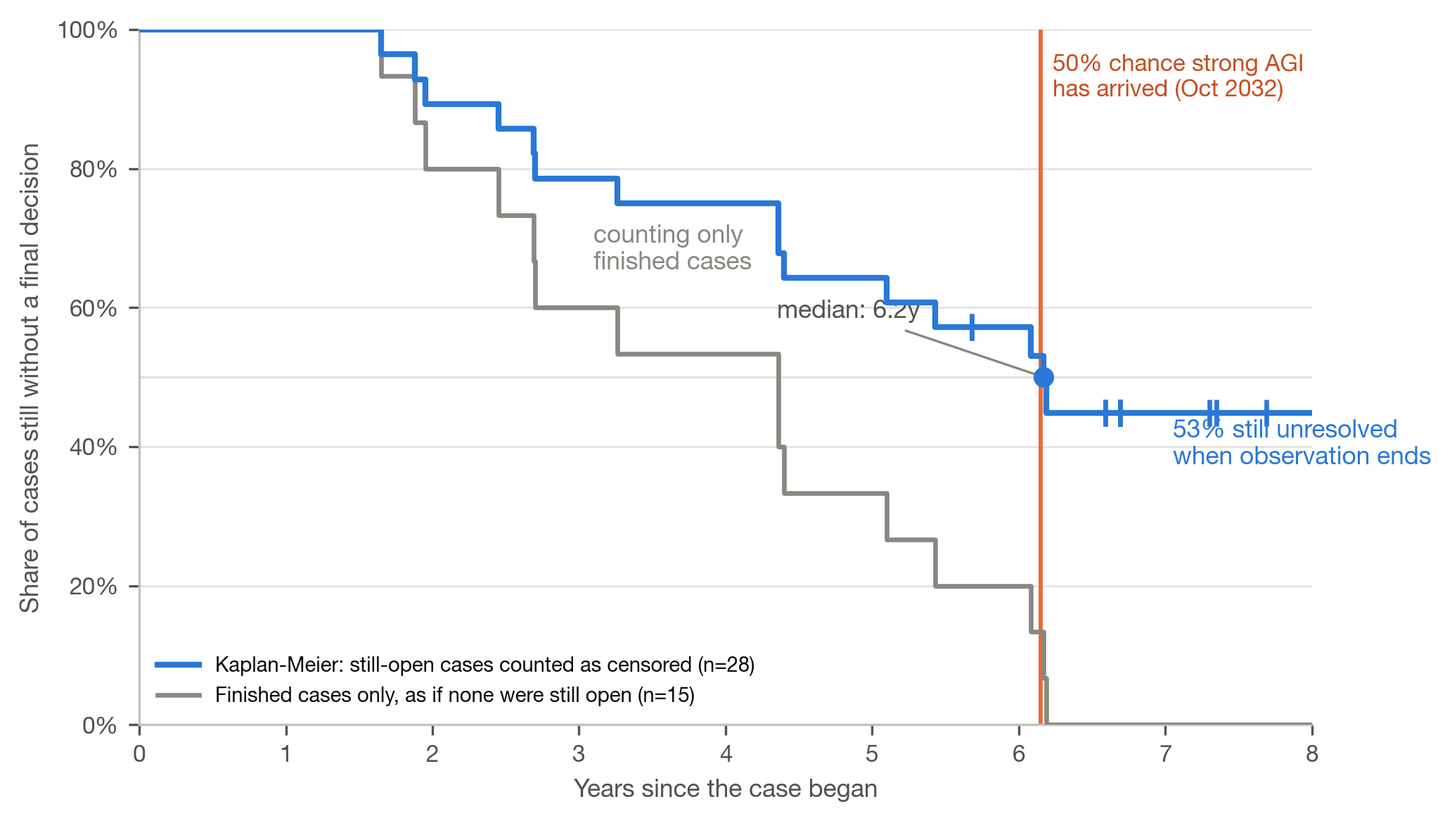
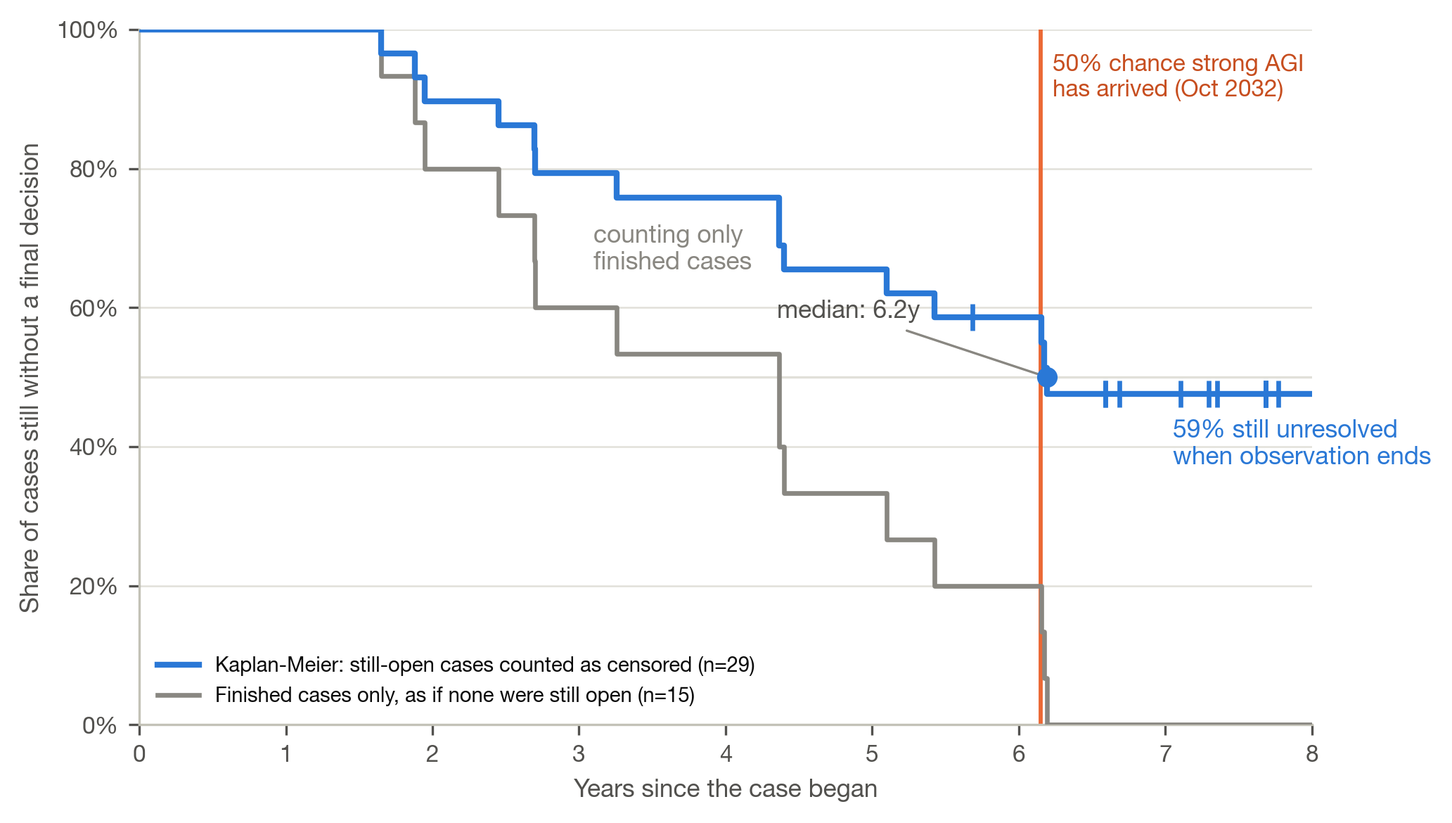
Audit corrections to the case datasets and figures
- Add the Facebook behavioural-advertising inquiry (La Quadrature du Net complaint,
  Aug 2018), which the DPC's 2020 annual report lists among the 27 cross-border
  inquiries open at end-2020 and which has no published decision; the end-2020
  cohort is now 29 cases with 14 still open on the 7 Sep 2026 basis date.
- Correct decision dates for UCD (17 Dec 2020), Centric Health (23 Jan 2023) and
  CDETB (18 Jun 2025), and the swapped commencement dates of the two token-breach
  inquiries, all per the decision PDFs.
- Replace ten month-precision commencement dates with the exact dates stated in the
  decisions (57 day-precision rows, 10 month-precision rows).
- Record inferred commencements with reasons for Bank of Ireland Group (Nov 2019,
  acknowledgement in the decision appendix), PIAB (May 2020, twin inquiry) and
  Mediahuis (Mar 2021 or later, complaint receipt per AR2024); relabel the Garda
  Dec 2022 decision (Kilmainham station breach).
- Open list: use the DPC's own dates for Yahoo, Quantcast and the Twitter and Apple
  inquiries listed in the 2018/2019 annual reports; add the Twitter datasets, TikTok
  China-servers and SHEIN inquiries; note the Google location-data decision of
  21 Sep 2026 (after the basis date).
- analyze.py: compute figure labels instead of hard-coding them, use exact day
  counts in the Kaplan-Meier estimate, and plot the Article 25 token-breach
  decision (EUR 240m) rather than the notification decision.
[…]

diff --git a/scripts/build_dataset.py b/scripts/build_dataset.py
@@ -51,19 +51,19 @@ row('inquiry-tusla-child-and-family-agency-may-2020', 'IN-19-12-8', 'Tusla Child
     trigger='2019-11-04', trigger_type='breach notified',
     note='Commencement letter 11 Dec 2019 quoted in decision')
 row('inquiry-university-college-dublin', 'IN-19-7-4', 'University College Dublin', PB, 0,
-    'own-volition (breach)', 'GDPR', '2019-07-19', 'day', '2020-06-17', 70000, 0,
+    'own-volition (breach)', 'GDPR', '2019-07-19', 'day', '2020-12-17', 70000, 0,
     trigger='2018-08-08', trigger_type='first of 7 breaches notified',
-    note='Notice of Commencement 19 July 2019 per decision')
+    note="Notice of Commencement 19 July 2019 per decision; decision dated 17 December 2020 on the PDF cover and in the DPC decisions list (the individual web page's '17 June 2020' is a DPC typo)")
 row('inquiry-tusla-child-and-family-agency-august-2020', 'IN-18-11-4', 'Tusla Child and Family Agency (3)', PB, 0,
-    'own-volition (breach)', 'GDPR', '2018-12-15', 'month', '2020-08-12', 85000, 0,
-    note='71 breaches; decision quotes Tusla doc "DPC Inquiry initiated in December 2018"; fines 50k+35k')
+    'own-volition (breach)', 'GDPR', '2018-12-06', 'day', '2020-08-12', 85000, 0,
+    note='71 breaches; decision quotes Tusla doc "DPC Inquiry initiated in December 2018"; fines 50k+35k; notice of commencement letter dated 6 December 2018 (para 2.1)')
 row('inquiries-concerning-health-service-executive#1', 'IN-19-9-1', 'Health Service Executive (1)', PB, 0,
     'own-volition (breach)', 'GDPR', '2019-10-17', 'day', '2020-08-18', 65000, 0,
     note='Notice of Commencement 17 Oct 2019 per decision')
 row('inquiries-concerning-health-service-executive#2', 'IN-19-9-2', 'Health Service Executive (2)', PB, 0,
-    'own-volition (breach)', 'GDPR', '2019-11-15', 'month', '2020-09-29', 0, 0,
+    'own-volition (breach)', 'GDPR', '2019-11-26', 'day', '2020-09-29', 0, 0,
     trigger='2019-05-01', trigger_type='breach notified',
-    note='Second HSE inquiry; commencement month approximated (notice date not in available text); no additional fine given IN-19-9-1')
+    note='Second HSE inquiry; commencement month approximated (notice date not in available text); no additional fine given IN-19-9-1; Notice of Commencement 26 November 2019 (para 3.3)')
 row('inquiry-waterford-city-and-county-council', '06-SIU-2018', 'Waterford City & County Council (CCTV)', PB, 0,
     'own-volition', 'LED', '2018-06-25', 'month', '2020-10-21', 0, 0,
     note='SIU surveillance program June 2018')
@@ -103,20 +103,20 @@ row('inquiry-limerick-city-and-county-council', '03-SIU-2018', 'Limerick City & 
     note='Decision records audit opening phase commencing 25 June 2018')
 # ---------------------------------------------------------------- 2022
 row('inquiry-personal-injuries-assessment-board', 'IN-20-4-7', 'Personal Injuries Assessment Board', PB, 0,
-    'own-volition (breach)', 'GDPR', '2020-04-15', 'month', '2022-01-24', 0, 0,
+    'own-volition (breach)', 'GDPR', '2020-05-08', 'month', '2022-01-24', 0, 0,
     trigger='2019-12-10', trigger_type='breach notified',
-    note='Commencement month from DPC ref convention (IN-20-4)')
+    note='Commencement inferred as May 2020: the published decision gives no date, and the twin inquiry into the same lost USB device (IN-20-4-8) was commenced by letter of 8 May 2020; the DPC ref convention had suggested April')
 row('inquiry-consultancy-provider', 'IN-20-4-8', 'A Consultancy Provider (processor)', PR, 0,
-    'own-volition (breach)', 'GDPR', '2020-04-15', 'month', '2022-01-24', 0, 0,
-    note='Companion inquiry to PIAB; commencement month from DPC ref convention')
+    'own-volition (breach)', 'GDPR', '2020-05-08', 'day', '2022-01-24', 0, 0,
+    note='Companion inquiry to PIAB; commencement month from DPC ref convention; Letter of Notice of the Commencement of an Inquiry 8 May 2020 (para 4.6)')
 row('inquiry-slane-credit-union', 'IN-19-7-5', 'Slane Credit Union', PR, 0,
     'own-volition (breach)', 'GDPR', '2019-07-19', 'day', '2022-01-26', 5000, 0,
     trigger='2018-11-30', trigger_type='breach notified',
     note='Inquiry Commencement Notice 19 Jul 2019 per decision')
 row('inquiry-bank-ireland-group-plc', 'IN-19-9-5', 'Bank of Ireland Group (CCR breaches)', PR, 0,
-    'own-volition (breach)', 'GDPR', '2019-09-15', 'month', '2022-03-14', 463000, 0,
+    'own-volition (breach)', 'GDPR', '2019-11-12', 'month', '2022-03-14', 463000, 0,
     trigger='2018-11-09', trigger_type='first of 22 breaches notified',
-    note='Commencement month from DPC ref convention (IN-19-9)')
+    note="Commencement letter undated in the decision text, but the appendix schedule records BOI's acknowledgement of the inquiry on 12 November 2019 and its reply to the commencement letter on 6 December 2019, so the inquiry commenced on or shortly before 12 Nov 2019 (the DPC ref convention had suggested September)")
 row('inquiry-concerning-12-facebook-personal-data-breaches', 'IN-18-11-5', 'Meta/Facebook (12 breaches 2018)', BT, 1,
     'own-volition (breach)', 'GDPR', '2018-12-11', 'day', '2022-03-15', 17000000, 0,
     trigger='2018-06-07', trigger_type='first of 12 breaches notified',
@@ -143,25 +143,25 @@ row('inquiry-ark-life-assurance-company-dac', 'IN-21-6-1', 'Ark Life Assurance (
 row('inquiry-concerning-meta-dataset-november-2022', 'IN-21-4-2', 'Meta/Facebook (data scraping)', BT, 1,
     'own-volition', 'GDPR', '2021-04-14', 'day', '2022-11-25', 265000000, 0,
     note='Commenced 14 Apr 2021 per decision after media reports of 533m-user scraped dataset')
-row('inquiry-garda-siochana-december-2022', 'IN-20-1-3', 'An Garda Siochana (disclosure requests)', PB, 0,
+row('inquiry-garda-siochana-december-2022', 'IN-20-1-3', 'An Garda Siochana (Kilmainham station breach)', PB, 0,
     'own-volition (breach)', 'LED', '2020-01-15', 'month', '2022-12-15', 0, 0,
-    note='Commencement month from DPC ref convention (IN-20-1); LED/DPA Part 5')
+    note="No decision text published; DPC page: LED (Part 5) inquiry into a breach at Kilmainham Garda Station that disclosed 108 people's names and addresses, decided 15 Dec 2022; commencement month from DPC ref convention (IN-20-1)")
 row('inquiry-virtue-integrated-elder-care-ltd-viec-december-2022', 'IN-21-2-5', 'Virtue Integrated Elder Care', PR, 0,
-    'own-volition (breach)', 'GDPR', '2021-02-15', 'month', '2022-12-20', 100000, 0,
+    'own-volition (breach)', 'GDPR', '2021-03-08', 'day', '2022-12-20', 100000, 0,
     trigger='2020-08-19', trigger_type='breach notified',
-    note='Commencement month from DPC ref convention (IN-21-2)')
+    note='Commencement month from DPC ref convention (IN-21-2); Commencement Letter 8 March 2021 (appendix C.1)')
 row('inquiry-ag-couriers-limited-ta-fastway-couriers-ireland-december-2022', 'IN-21-6-2', 'Fastway Couriers (A&G Couriers)', PR, 0,
-    'own-volition (breach)', 'GDPR', '2021-06-15', 'month', '2022-12-30', 15000, 0,
+    'own-volition (breach)', 'GDPR', '2021-10-18', 'day', '2022-12-30', 15000, 0,
     trigger='2021-03-04', trigger_type='breach notified',
-    note='Commencement month from DPC ref convention (IN-21-6)')
+    note='Commencement month from DPC ref convention (IN-21-6); Inquiry Commencement Letter 18 October 2021 per decision, four months after the reference month')
 row('inquiry-meta-platforms-ireland-limited-december-2022#1', 'IN-18-5-5', 'Meta/Facebook (legal basis for ads)', BT, 1,
     'complaint', 'GDPR', '2018-08-20', 'day', '2022-12-31', 210000000, 1,
     trigger='2018-05-25', trigger_type='noyb complaint (GDPR day one)',
     note='Inquiry commenced 20 Aug 2018 per decision; EDPB Art 65 binding decision')
 row('inquiry-meta-platforms-ireland-limited-december-2022#2', 'IN-18-5-7', 'Meta/Instagram (legal basis for ads)', BT, 1,
-    'complaint', 'GDPR', '2018-08-20', 'month', '2022-12-31', 180000000, 1,
+    'complaint', 'GDPR', '2018-08-20', 'day', '2022-12-31', 180000000, 1,
     trigger='2018-05-25', trigger_type='noyb complaint (GDPR day one)',
-    note='Companion inquiry opened in same Aug 2018 batch; EDPB Art 65 binding decision')
+    note='Companion inquiry opened in same Aug 2018 batch; EDPB Art 65 binding decision; Notice of Commencement dated 20 August 2018 (fn. 401-402), day precision')
 # ---------------------------------------------------------------- 2023
 row('inquiry-whatsapp-ireland-ltd-january-2023', 'IN-18-5-6', 'WhatsApp Ireland (legal basis)', BT, 1,
     'complaint', 'GDPR', '2018-08-20', 'day', '2023-01-12', 5500000, 1,
@@ -171,12 +171,12 @@ row('inquiry-kildare-county-council-january-2023', '05-SIU-2018', 'Kildare Count
     'own-volition', 'LED', '2018-06-25', 'month', '2023-01-16', 50000, 0,
     note='SIU surveillance program June 2018')
 row('inquiry-centric-health-ltd-centric-february-2023', 'IN-21-2-4', 'Centric Health (ransomware)', PR, 0,
-    'own-volition (breach)', 'GDPR', '2021-03-01', 'day', '2023-02-23', 460000, 0,
+    'own-volition (breach)', 'GDPR', '2021-03-01', 'day', '2023-01-23', 460000, 0,
     trigger='2019-12-05', trigger_type='breach notified',
-    note='Commencement letter 1 Mar 2021 per decision; fines 275k+50k+135k')
+    note="Commencement letter 1 Mar 2021 per decision; fines 275k+50k+135k; decision dated 23 January 2023 on the PDF cover (AR2023: 'issued its Final Decision in this Inquiry in January 2023'); the DPC page's 23 Feb 2023 is the publication date")
 row('inquiry-bank-ireland-365-boi-february-2023', 'IN-20-7-2', 'Bank of Ireland 365', PR, 0,
-    'own-volition (breach)', 'GDPR', '2020-07-15', 'month', '2023-02-27', 750000, 0,
-    note='Commencement month from DPC ref convention (IN-20-7)')
+    'own-volition (breach)', 'GDPR', '2020-08-12', 'day', '2023-02-27', 750000, 0,
+    note='Commencement month from DPC ref convention (IN-20-7); Inquiry Commencement Letter 12 August 2020 per decision')
 row('inquiry-processing-church-records-archbishop-dublin', 'IN-19-7-6', 'Archbishop of Dublin (church records)', NP, 0,
     'complaint', 'GDPR', '2019-12-20', 'day', '2023-02-27', 0, 0,
     note='Commencement letter 20 Dec 2019 per decision')
@@ -222,8 +222,8 @@ row('groupon-ireland-operations-limited-march-2024', '', 'Groupon Ireland (acces
     'complaint', 'GDPR', '2019-02-01', 'day', '2024-03-08', 0, 0,
     note='DPC formally commenced investigation 1 Feb 2019 per decision')
 row('inquiry-concerning-mediahuis-ireland-group-limited', 'IN-21-2-6', 'Mediahuis Ireland (journalism complaint)', PR, 0,
-    'complaint', 'GDPR', '2021-02-15', 'month', '2024-06-07', 0, 0,
-    note='Commencement month from DPC ref convention (IN-21-2); complaint dismissed (journalism exemption)')
+    'complaint', 'GDPR', '2021-03-15', 'month', '2024-06-07', 0, 0,
+    note='No decision text published; DPC AR2024 says the complaint was received in March 2021, so commencement is March 2021 or later (the DPC ref convention had suggested February); complaint dismissed (journalism exemption)')
 row('inquiry-meta-platforms-ireland-limited-september-2024', 'IN-19-4-1', 'Meta/Facebook (plaintext passwords)', BT, 1,
     'own-volition (breach)', 'GDPR', '2019-04-24', 'day', '2024-09-26', 91000000, 0,
     trigger='2019-03-21', trigger_type='issue reported to DPC',
@@ -239,13 +239,13 @@ row('inquiry-maynooth-university', 'IN-19-9-3', 'Maynooth University', PB, 0,
     'own-volition (breach)', 'GDPR', '2019-11-07', 'day', '2024-11-22', 40000, 0,
     note='Commencement letter 7 Nov 2019 per decision; fines 25k+15k')
 row('inquiries-meta-platforms-ireland-limited-token-breach#1', 'IN-18-10-1', 'Meta/Facebook (token breach, notification)', BT, 1,
-    'own-volition (breach)', 'GDPR', '2018-10-03', 'day', '2024-12-12', 11000000, 0,
+    'own-volition (breach)', 'GDPR', '2018-10-18', 'day', '2024-12-12', 11000000, 0,
     trigger='2018-09-28', trigger_type='breach notified',
-    note='DPC announced statutory inquiry 3 Oct 2018 (press statement); fines 8m+3m under Art 33')
+    note="Article 33 decision, para 6: 'The DPC commenced an own-volition inquiry ... on 18 October 2018'; the 3 Oct 2018 press statement relates to the companion Art 25 inquiry (the DPC's two PDF file names are swapped); fines 8m+3m under Art 33")
 row('inquiries-meta-platforms-ireland-limited-token-breach#2', 'IN-18-11-1', 'Meta/Facebook (token breach, Art 25)', BT, 1,
-    'own-volition (breach)', 'GDPR', '2018-11-15', 'month', '2024-12-12', 240000000, 0,
+    'own-volition (breach)', 'GDPR', '2018-10-03', 'day', '2024-12-12', 240000000, 0,
     trigger='2018-09-28', trigger_type='breach notified',
-    note='Second token-breach inquiry; commencement month from DPC ref convention (IN-18-11); fines 130m+110m under Art 25')
+    note="Second token-breach inquiry; commencement month from DPC ref convention (IN-18-11); fines 130m+110m under Art 25; Article 25 decision, para 6: inquiry commenced 3 October 2018 (day precision); the DPC's two token-breach PDF file names are swapped")
 # ---------------------------------------------------------------- 2025-2026
 row('inquiry-tiktok-technology-limited', 'IN-21-9-2', 'TikTok (transfers to China)', BT, 1,
     'own-volition', 'GDPR', '2021-09-14', 'day', '2025-04-30', 530000000, 0,
@@ -254,15 +254,15 @@ row('inquiry-concerning-department-social-protection', 'IN-21-7-3', 'Dept of Soc
     'own-volition', 'GDPR', '2021-07-20', 'day', '2025-06-09', 550000, 0,
     note='Notice of Commencement 20 Jul 2021 per decision')
 row('inquiry-city-dublin-education-and-training-board-cdetb', 'IN-19-7-3', 'City of Dublin ETB (SUSI breach)', PB, 0,
-    'own-volition (breach)', 'GDPR', '2019-07-19', 'month', '2025-06-23', 125000, 0,
-    note='DPC summary: commenced July 2019 (same notice batch as UCD/ICB/Slane, 19 Jul 2019); fines 50k+15k+10k+50k')
+    'own-volition (breach)', 'GDPR', '2019-07-19', 'day', '2025-06-18', 125000, 0,
+    note="DPC summary: commenced July 2019 (same notice batch as UCD/ICB/Slane, 19 Jul 2019); fines 50k+15k+10k+50k; Inquiry Commencement Letter 19 July 2019 (para 50); decision 'made on 18 June 2025' per the corrigendum (page date 23 Jun 2025 is publication)")
 row('inquiry-microsoft-ireland-operations-limited-september-2025', '', 'Microsoft Ireland (access complaint)', BT, 1,
     'complaint', 'GDPR', '2023-05-16', 'day', '2025-09-01', 0, 0,
     note='Commenced 16 May 2023 per DPC summary')
 row('inquiry-concerning-university-limerick', 'IN-19-7-1', 'University of Limerick', PB, 0,
-    'own-volition (breach)', 'GDPR', '2019-07-19', 'month', '2025-12-10', 98000, 0,
+    'own-volition (breach)', 'GDPR', '2019-07-08', 'day', '2025-12-10', 98000, 0,
     trigger='2018-11-30', trigger_type='first of 12 breaches notified',
-    note='Ref IN-19-7-1; July 2019 breach-sweep batch (UCD/ICB/Slane notices dated 19 Jul 2019); fines total 98k per DPC')
+    note='Ref IN-19-7-1; July 2019 breach-sweep batch (UCD/ICB/Slane notices dated 19 Jul 2019); fines total 98k per DPC; Notice of Commencement of Inquiry 8 July 2019 per decision')
 row('inquiry-permanent-TSB-april-2026', 'IN-22-7-3', 'Permanent TSB', PR, 0,
     'own-volition (breach)', 'GDPR', '2022-08-24', 'day', '2026-04-30', 277500, 0,
     trigger='2022-05-26', trigger_type='breaches notified',

diff --git a/scripts/build_open_inquiries.py b/scripts/build_open_inquiries.py
@@ -22,29 +22,37 @@ ROWS = [
  ('Google Ireland (adtech / Ad Exchange RTB)', 'legal basis, transparency, retention in real-time bidding',
   '2019-05-22', 'day', 'DPC statement 22 May 2019; ICCL reporting confirms no decision through 2026'),
  ('Quantcast International', 'transparency and retention in adtech profiling',
-  '2019-05-01', 'month', 'DPC announced inquiry May 2019 (AR2019 table)'),
+  '2019-05-02', 'day', 'DPC announced inquiry May 2019 (AR2019 table); DPC press release 2 May 2019'),
  ('Verizon Media / Oath (Yahoo)', 'transparency under Articles 12-14',
-  '2019-12-31', 'by_year_end', 'listed open in AR2019 cross-border table'),
+  '2019-08-01', 'day', 'DPC: inquiry commenced 1 Aug 2019; Art 60 draft 27 Oct 2022'),
  ('Apple Distribution International (ads legal basis)', 'lawful basis for behavioural ads',
-  '2019-12-31', 'by_year_end', 'listed open in AR2019 cross-border table'),
+  '2018-12-31', 'by_year_end', 'listed open in AR2019 cross-border table; listed among the inquiries open at 31 Dec 2018 (AR2018 table)'),
  ('Apple Distribution International (transparency)', 'privacy policy transparency',
-  '2019-12-31', 'by_year_end', 'listed open in AR2019 cross-border table'),
+  '2018-12-31', 'by_year_end', 'listed open in AR2019 cross-border table; listed among the inquiries open at 31 Dec 2018 (AR2018 table)'),
  ('Apple Distribution International (right of access)', 'access request handling',
-  '2020-12-31', 'by_year_end', 'listed open in AR2020 cross-border table'),
+  '2019-12-31', 'by_year_end', 'listed open in AR2020 cross-border table; already in the AR2019 table (access request issues), so latest-possible start is end-2019'),
  ('Facebook Inc. (token breach, US entity)', 'security of processing (Sep 2018 token breach)',
   '2018-12-31', 'by_year_end', 'listed open in AR2019/AR2020 tables; Dec 2024 decisions covered the Irish entity only'),
  ('Meta/Facebook (Hive database access & portability)', 'right of access and data portability',
   '2018-07-27', 'day', 'inquiry IN-18-7-1 opened 27 Jul 2018 on a 20 Jul 2018 complaint about access to the Hive data warehouse; confirmed by High Court judgment [2026] IEHC 323 (21 May 2026) and contemporaneous reporting (Law Society Gazette, ppc.land); previously bounded at end-2019 from the AR2019 open-inquiries table'),
+ ('Meta/Facebook (behavioural advertising, LQDN complaint)', 'lawfulness of processing for targeted advertising and behavioural analysis',
+  '2018-08-31', 'month', 'complaint by La Quadrature du Net (28 May 2018); inquiry commenced Aug 2018 (AR2020 cross-border table); AR2024: final inquiry report July 2024, ongoing at year end; no published decision'),
  ('Twitter International (access to links)', 'right of access to links accessed on Twitter',
-  '2019-12-31', 'by_year_end', 'listed open in AR2019 cross-border table'),
+  '2018-12-31', 'by_year_end', 'listed open in AR2019 cross-border table; listed among the inquiries open at 31 Dec 2018 (AR2018 table)'),
  ('Twitter International (breach volume)', 'security of processing (breach volume since May 2018)',
-  '2019-12-31', 'by_year_end', 'listed open in AR2019 cross-border table; distinct from decided IN-19-1-1'),
+  '2018-11-30', 'month', 'listed open in AR2019 cross-border table; distinct from decided IN-19-1-1'),
  ('Yelp', 'Articles 5, 6, 7, 17 compliance',
   '2020-12-31', 'by_year_end', 'listed open in AR2020 cross-border table'),
  ('Google Ireland (location data)', 'legal basis and transparency for location data',
-  '2020-02-04', 'day', 'DPC press release 4 Feb 2020; no published decision'),
+  '2020-02-04', 'day', 'DPC press release 4 Feb 2020; no published decision; still open on the 7 Sep 2026 basis date; final decision (EUR 403m) announced 21 Sep 2026, after the basis date'),
  ('MTCH Technology (Tinder)', 'transparency, data subject rights, retention',
   '2020-02-04', 'day', 'DPC press release 4 Feb 2020; draft decision Jan 2024; no final decision per Match Group filings'),
+ ('Twitter International (datasets / scraping)', 'security of processing, datasets of about 5.4 million users',
+  '2022-12-23', 'day', 'DPC announcement 23 Dec 2022; AR2023: issues paper and submissions Nov 2023, preliminary draft decision in preparation; no published decision'),
+ ('TikTok Technology (China servers, second inquiry)', 'transfers to and storage on servers in China',
+  '2025-07-10', 'week', 'DPC press release 10 Jul 2025 (decision to commence notified to TikTok that week); AR2025: on-site inspection Nov 2025'),
+ ('Infinite Styles Services / SHEIN Ireland', 'transfers of EU user data to China',
+  '2026-04-30', 'day', 'DPC announcement 5 May 2026: decision to commence issued to SHEIN Ireland on 30 Apr 2026'),
  ('Google Ireland (PaLM 2 AI model)', 'Article 35 DPIA for AI model training',
   '2024-09-12', 'day', 'DPC press release 12 Sep 2024'),
  ('Ryanair DAC (facial recognition)', 'biometric verification of customers',

diff --git a/scripts/analyze.py b/scripts/analyze.py
@@ -169,9 +169,9 @@ S['collected_through_2025_eur'] = COLLECTED_THROUGH_2025
 S['collected_share_of_imposed'] = round(COLLECTED_THROUGH_2025 / S['total_fines_eur'], 4)
 
 # ---------- censoring-aware cohort view (cross-border cases begun by end-2020) ----------
-cohort_events = sorted(r['duration_years'] for r in rows
+cohort_events = sorted(int(r['duration_days']) / 365.25 for r in rows
                        if r['cross_border'] and r['commencement_date'] <= '2020-12-31')
-cohort_censored = sorted(float(r[f'open_years_asof_{ASOF}']) for r in open_rows
+cohort_censored = sorted((ASOF - dt.date.fromisoformat(r['commencement_date'])).days / 365.25 for r in open_rows
                          if r['commencement_date'] <= '2020-12-31')
 combined = sorted(cohort_events + cohort_censored)
 n = len(combined)
@@ -217,7 +217,7 @@ def km_S(t):
         else: break
     return s
 S['km_median_years'] = round(km_median, 2)
-S['km_share_unresolved_at_strong_agi_median'] = round(km_S(S['strong_median_years']), 3)
+S['km_share_unresolved_at_strong_agi_median'] = round(km_S(strong.quantile_years(0.5)), 3)
 S['km_share_unresolved_at_5y'] = round(km_S(5.0), 3)
 naive_median = st.median(cohort_event_times)
 S['cohort_decided_only_median'] = round(naive_median, 2)
@@ -229,7 +229,7 @@ fig, ax = plt.subplots(figsize=(7.0, 4.0), dpi=300)
 xs3 = [t for t, s in km_steps] + [8.0]
 ys3 = [s for t, s in km_steps] + [km_steps[-1][1]]
 ax.step(xs3, ys3, where='post', color=BLUE, lw=2, zorder=4,
-        label='Kaplan-Meier: still-open cases counted as censored (n=28)')
+        label=f'Kaplan-Meier: still-open cases counted as censored (n={len(cohort_event_times)+len(cohort_censor_times)})')
 # censor ticks on the curve
 for ct in cohort_censor_times:
     ax.plot([ct], [km_S(ct)], marker='|', ms=9, mew=1.6, color=BLUE, zorder=5)
@@ -281,7 +281,7 @@ inc_y = [1 - s for t, s in km_steps]
 last_event_t, last_inc = inc_x[-1], inc_y[-1]
 max_censor = max(cohort_censor_times)
 ax.step(inc_x + [last_event_t], inc_y + [last_inc], where='post', color=BLUE, lw=2, zorder=5,
-        label='Cross-border cases decided within X years, 2018-2020 cohort (Kaplan-Meier, n=28)')
+        label=f'Cross-border cases decided within X years, 2018-2020 cohort (Kaplan-Meier, n={len(cohort_event_times)+len(cohort_censor_times)})')
 ax.plot([last_event_t, max_censor], [last_inc, last_inc], color=BLUE, lw=2, ls=(0, (3, 3)), zorder=5)
 ax.plot(xs, p_weak, color='#f0907c', lw=2, zorder=4, label=f'P(weakly general AI within X years), Metaculus (n={weak.n:,})')
 ax.plot(xs, p_strong, color='#b02a25', lw=2, zorder=4, label=f'P(strong AGI within X years), Metaculus (n={strong.n:,})')
@@ -302,7 +302,7 @@ ax.plot([S['km_median_years']], [0.5], marker='o', ms=6, color=BLUE, zorder=6)
 ax.annotate(f"median: {S['km_median_years']:.1f}y", xy=(S['km_median_years'] - 0.05, 0.5),
             xytext=(4.55, 0.53), fontsize=8, color=INK2,
             arrowprops=dict(arrowstyle='-', color=MUTED, lw=0.8))
-ax.annotate('45% of the cohort still open\nwhen observation ends', xy=(6.55, 0.645),
+ax.annotate(f'{km_steps[-1][1]:.0%} of the cohort still open\nwhen observation ends', xy=(6.55, 0.645),
             fontsize=8, color=BLUE)
 ax.legend(loc='lower right', fontsize=6.6, frameon=False)
 fig.tight_layout()
@@ -311,7 +311,7 @@ plt.close(fig)
 
 # ---------- figure 2: durations vs the AGI horizons ----------
 land = [
-    ('2018 token breach', 'inquiries-meta-platforms-ireland-limited-token-breach#1'),
+    ('2018 token breach', 'inquiries-meta-platforms-ireland-limited-token-breach#2'),
     ('Behavioral-ads consent', 'inquiry-linkedin-ireland-unlimited-company-october-2024'),
     ('Plaintext passwords', 'inquiry-meta-platforms-ireland-limited-september-2024'),
     ('Forced-consent advertising', 'inquiry-meta-platforms-ireland-limited-december-2022#1'),

diff --git a/output/stats.md b/output/stats.md
@@ -4,29 +4,29 @@
 - Concluded decisions in dataset: 67 (59 GDPR, 8 LED/DPA)
 - Total administrative fines imposed: EUR 4,038,832,000 (matches the DPC's own cumulative figure of EUR 4.04bn, AR2025)
 - Actually collected through end-2025 per DPC annual reports: EUR 20,037,000 (0.5%); fines are payable only after Circuit Court confirmation or the end of appeals
-- GDPR inquiries: median 1.95y, mean 2.54y, IQR 1.3-3.46y, max 6.67y
+- GDPR inquiries: median 1.9y, mean 2.54y, IQR 1.3-3.44y, max 6.67y
 - Big-tech (cross-border platform) inquiries: n=26, median 1.96y
-- Inquiries ending in a fine >= EUR 1m: n=14, median 3.99y, mean 3.91y
+- Inquiries ending in a fine >= EUR 1m: n=14, median 3.99y, mean 3.92y
 - Share of GDPR inquiries taking > 3y: 30%; > 5y: 15%
-- GDPR-launch-window complaints (25-28 May 2018) to final decision: [4.6, 4.6, 4.64, 6.4] years (Facebook, Instagram, WhatsApp, LinkedIn)
+- GDPR-launch-window complaints (25-28 May 2018) to final decision: [4.6, 4.6, 4.64, 6.41] years (Facebook, Instagram, WhatsApp, LinkedIn)
 - Meta EU-US transfers: original complaint (Jun 2013) to decision (May 2023): 9.88y
 - Tullamore hospital ransomware: breach notified Nov 2018, decision Jun 2026: 7.56y
-- Cross-border inquiries opened 2018-2020 with NO published decision by Sep 2026: 13 (of 27 open at end-2020)
+- Cross-border inquiries opened 2018-2020 with NO published decision by Sep 2026: 14 (of 27 open at end-2020)
 - Google adtech inquiry open 7.3y and counting; Tinder 6.59y
-- Censoring-aware cohort view: of 28 cross-border cases begun by end-2020, 13 are still open, so the cohort's median lifetime is at least 5.88y and still rising (vs 1.96y among concluded big-tech cases alone)
-- Kaplan-Meier estimate for that cohort: median time to decision 6.17y (decided-only median 4.36y); 64% still unresolved at 5y; 53% unresolved past 6.15y, the strong-AGI median horizon. Censored ages use latest-possible commencement dates, so the true curve sits at or above this estimate
-- P(weak AGI within the KM median cross-border case, 6.17y): 77%; P(strong): 50%
+- Censoring-aware cohort view: of 29 cross-border cases begun by end-2020, 14 are still open, so the cohort's median lifetime is at least 6.17y and still rising (vs 1.96y among concluded big-tech cases alone)
+- Kaplan-Meier estimate for that cohort: median time to decision 6.19y (decided-only median 4.36y); 66% still unresolved at 5y; 59% unresolved past 6.15y, the strong-AGI median horizon. Censored ages use latest-possible commencement dates, so the true curve sits at or above this estimate
+- P(weak AGI within the KM median cross-border case, 6.19y): 77%; P(strong): 50%
 
 ## AGI forecasts (Metaculus community, captured 2026-09-07)
 - Strong AGI (Q5121, n=1,837): median 6.15y from now (~Oct 2032); 25th pct 2.43y
 - Weak AGI (Q3479, n=1,719): median 1.71y from now (~May 2028)
 
 ## Cross statistics
-- P(weak AGI arrives within one median DPC inquiry, 1.95y): 53%
+- P(weak AGI arrives within one median DPC inquiry, 1.9y): 52%
 - P(strong AGI within one median DPC inquiry): 21%
 - P(weak AGI within one median EUR-1m+ fine inquiry, 3.99y): 68%
 - P(strong AGI within one median EUR-1m+ fine inquiry): 36%
-- P(strong AGI within the LinkedIn complaint-to-decision span, 6.4y): 51%
+- P(strong AGI within the LinkedIn complaint-to-decision span, 6.41y): 51%
 - P(strong AGI within the longest concluded inquiry, 6.67y): 53%  (P weak: 78%)
 - P(strong AGI within the Google adtech inquiry's current age, 7.3y): 56%
-- Share of concluded GDPR inquiries that outlasted 2.43y (the forecasters' 25% strong-AGI horizon): 41% (EUR-1m+ fine subset: 79%)
+- Share of concluded GDPR inquiries that outlasted 2.43y (the forecasters' 25% strong-AGI horizon): 39% (EUR-1m+ fine subset: 79%)

diff --git a/README.md b/README.md
@@ -12,8 +12,8 @@ scripts below.
 | File | What it is |
 |---|---|
 | `data/dpc_inquiries.csv` | 67 concluded DPC statutory inquiries / complaint decisions published under the Data Protection Act 2018 (Aug 2019 to Jun 2026). One row per inquiry with commencement date, decision date, duration, fine, sector, origin, legal regime, and a per-row source note. |
-| `data/dpc_open_inquiries.csv` | 17 notable cross-border inquiries with no published final decision as of 7 Sep 2026, with commencement dates and duration-so-far. |
-| `data/dpc_cases_combined.csv` | Spreadsheet-style table of all 84 cases (67 concluded + 17 open) on one common column set, for people who just want the case list. Built by `scripts/build_combined_csv.py`; open rows carry their age as of 7 Sep 2026. |
+| `data/dpc_open_inquiries.csv` | 21 notable cross-border inquiries with no published final decision as of 7 Sep 2026 (the Google location-data inquiry among them was decided on 21 Sep 2026, after the basis date; see its source note), with commencement dates and duration-so-far. |
+| `data/dpc_cases_combined.csv` | Spreadsheet-style table of all 88 cases (67 concluded + 21 open) on one common column set, for people who just want the case list. Built by `scripts/build_combined_csv.py`; open rows carry their age as of 7 Sep 2026. |
 | `data/agi_timelines.csv` | AGI arrival forecasts. Metaculus community quantiles (Q5121 general AI, Q3479 weakly general AI, captured 7 Sep 2026; the 29 Aug 2026 capture is kept in `data/raw/metaculus_questions_2026-08-29.json`), AI Impacts 2023 survey aggregates, XPT tournament probabilities. |
 | `data/agi_forecast_cdf.csv` | Year-by-year cumulative probability of AGI arrival from the two Metaculus community CDFs. |
 
